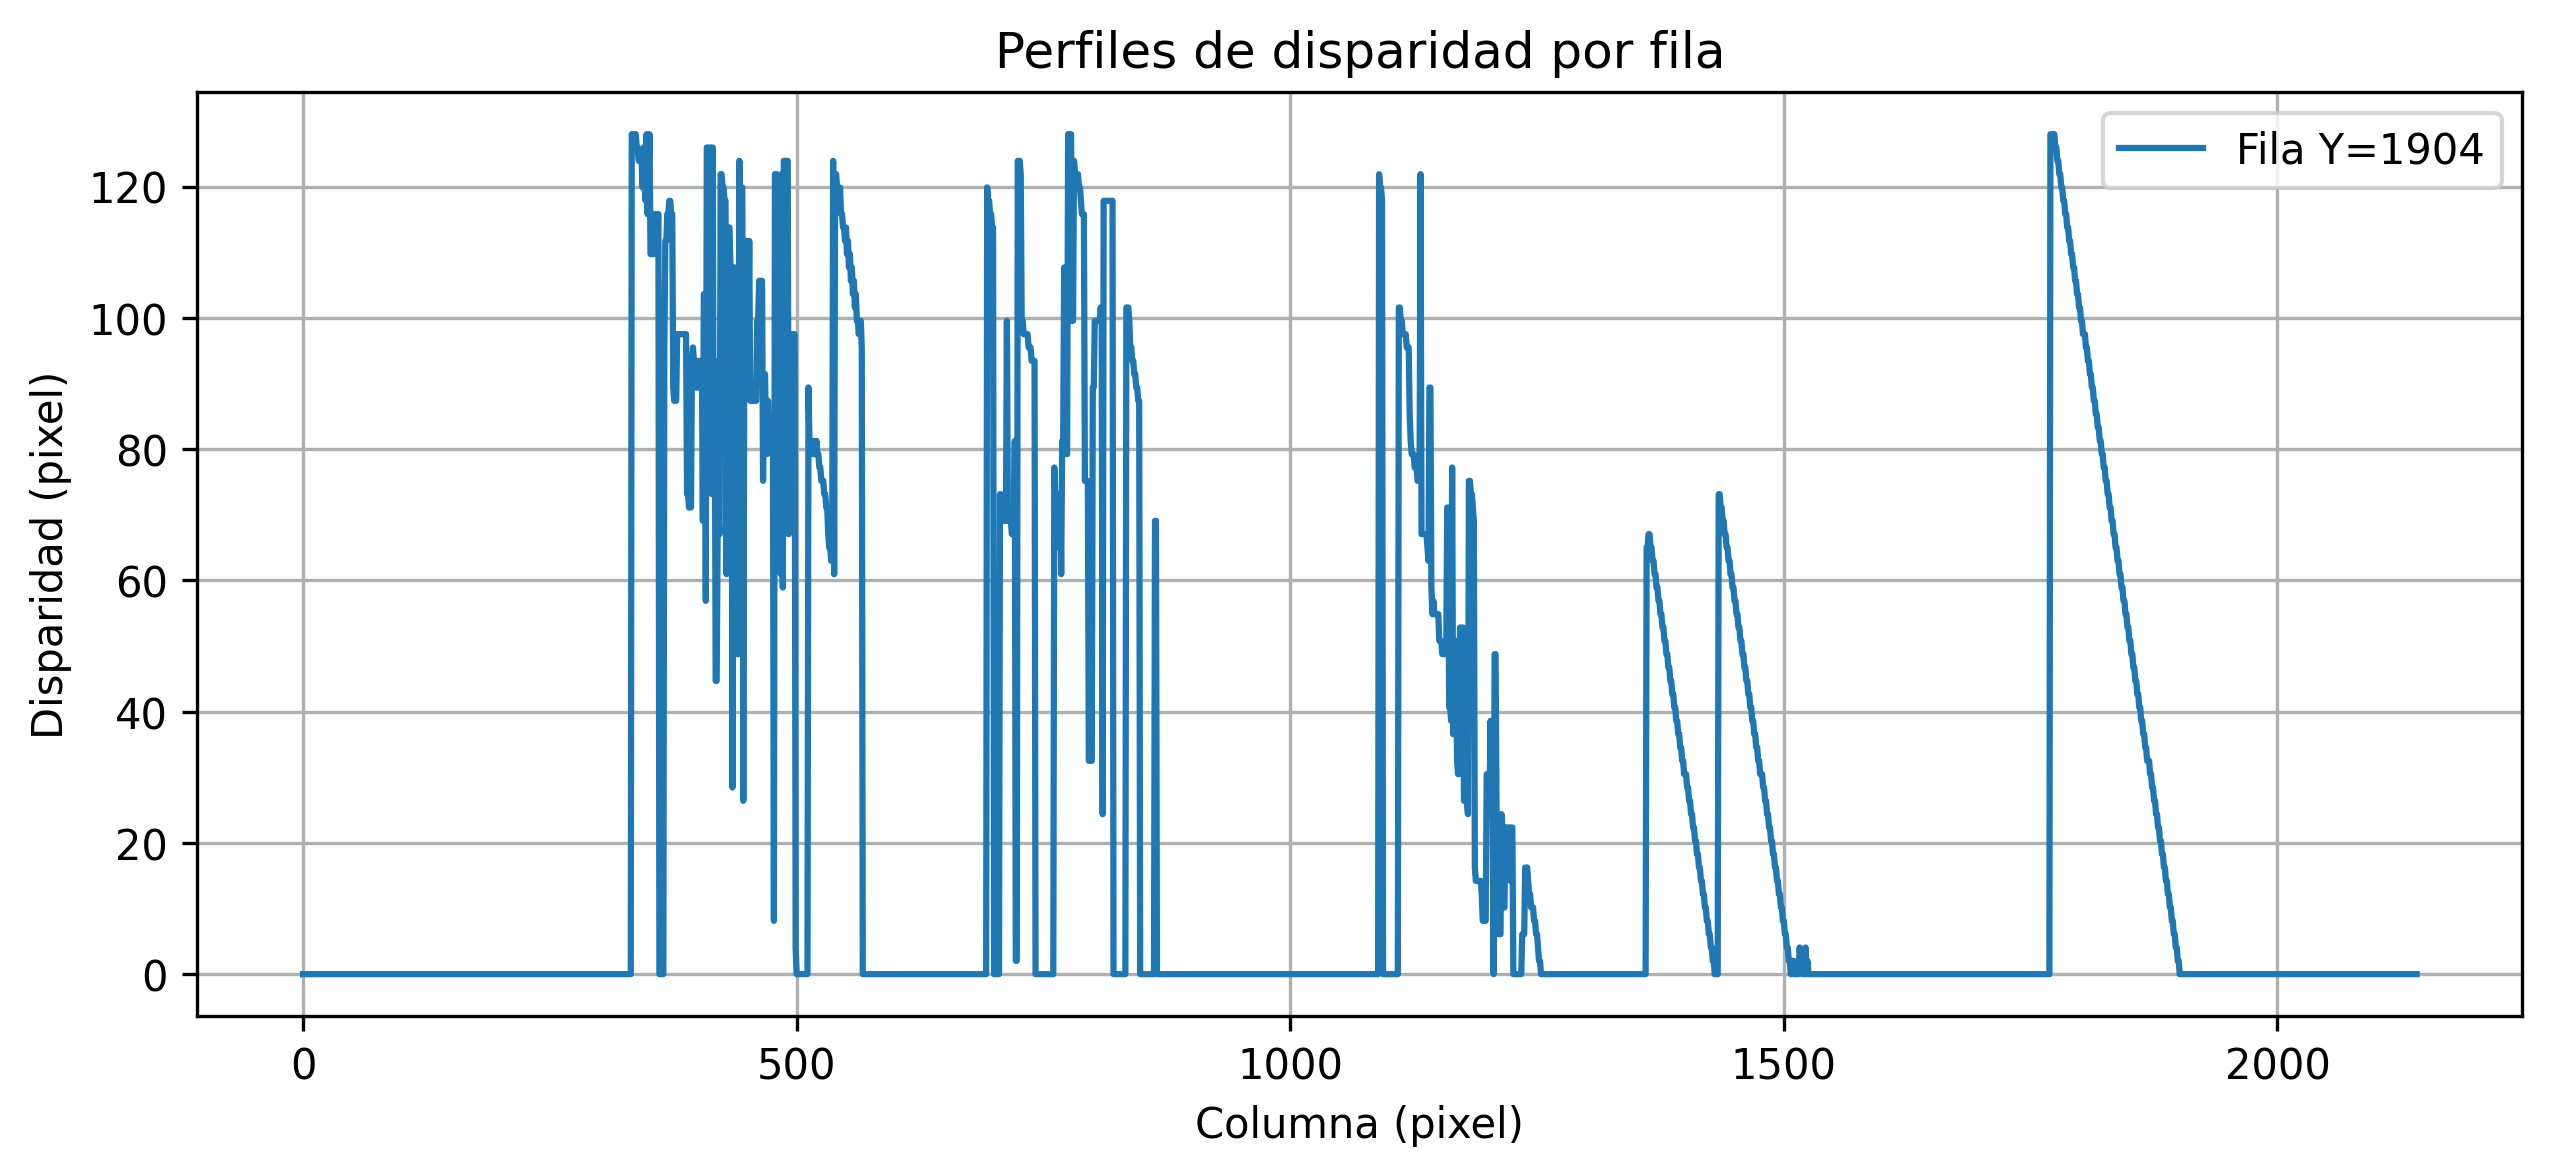
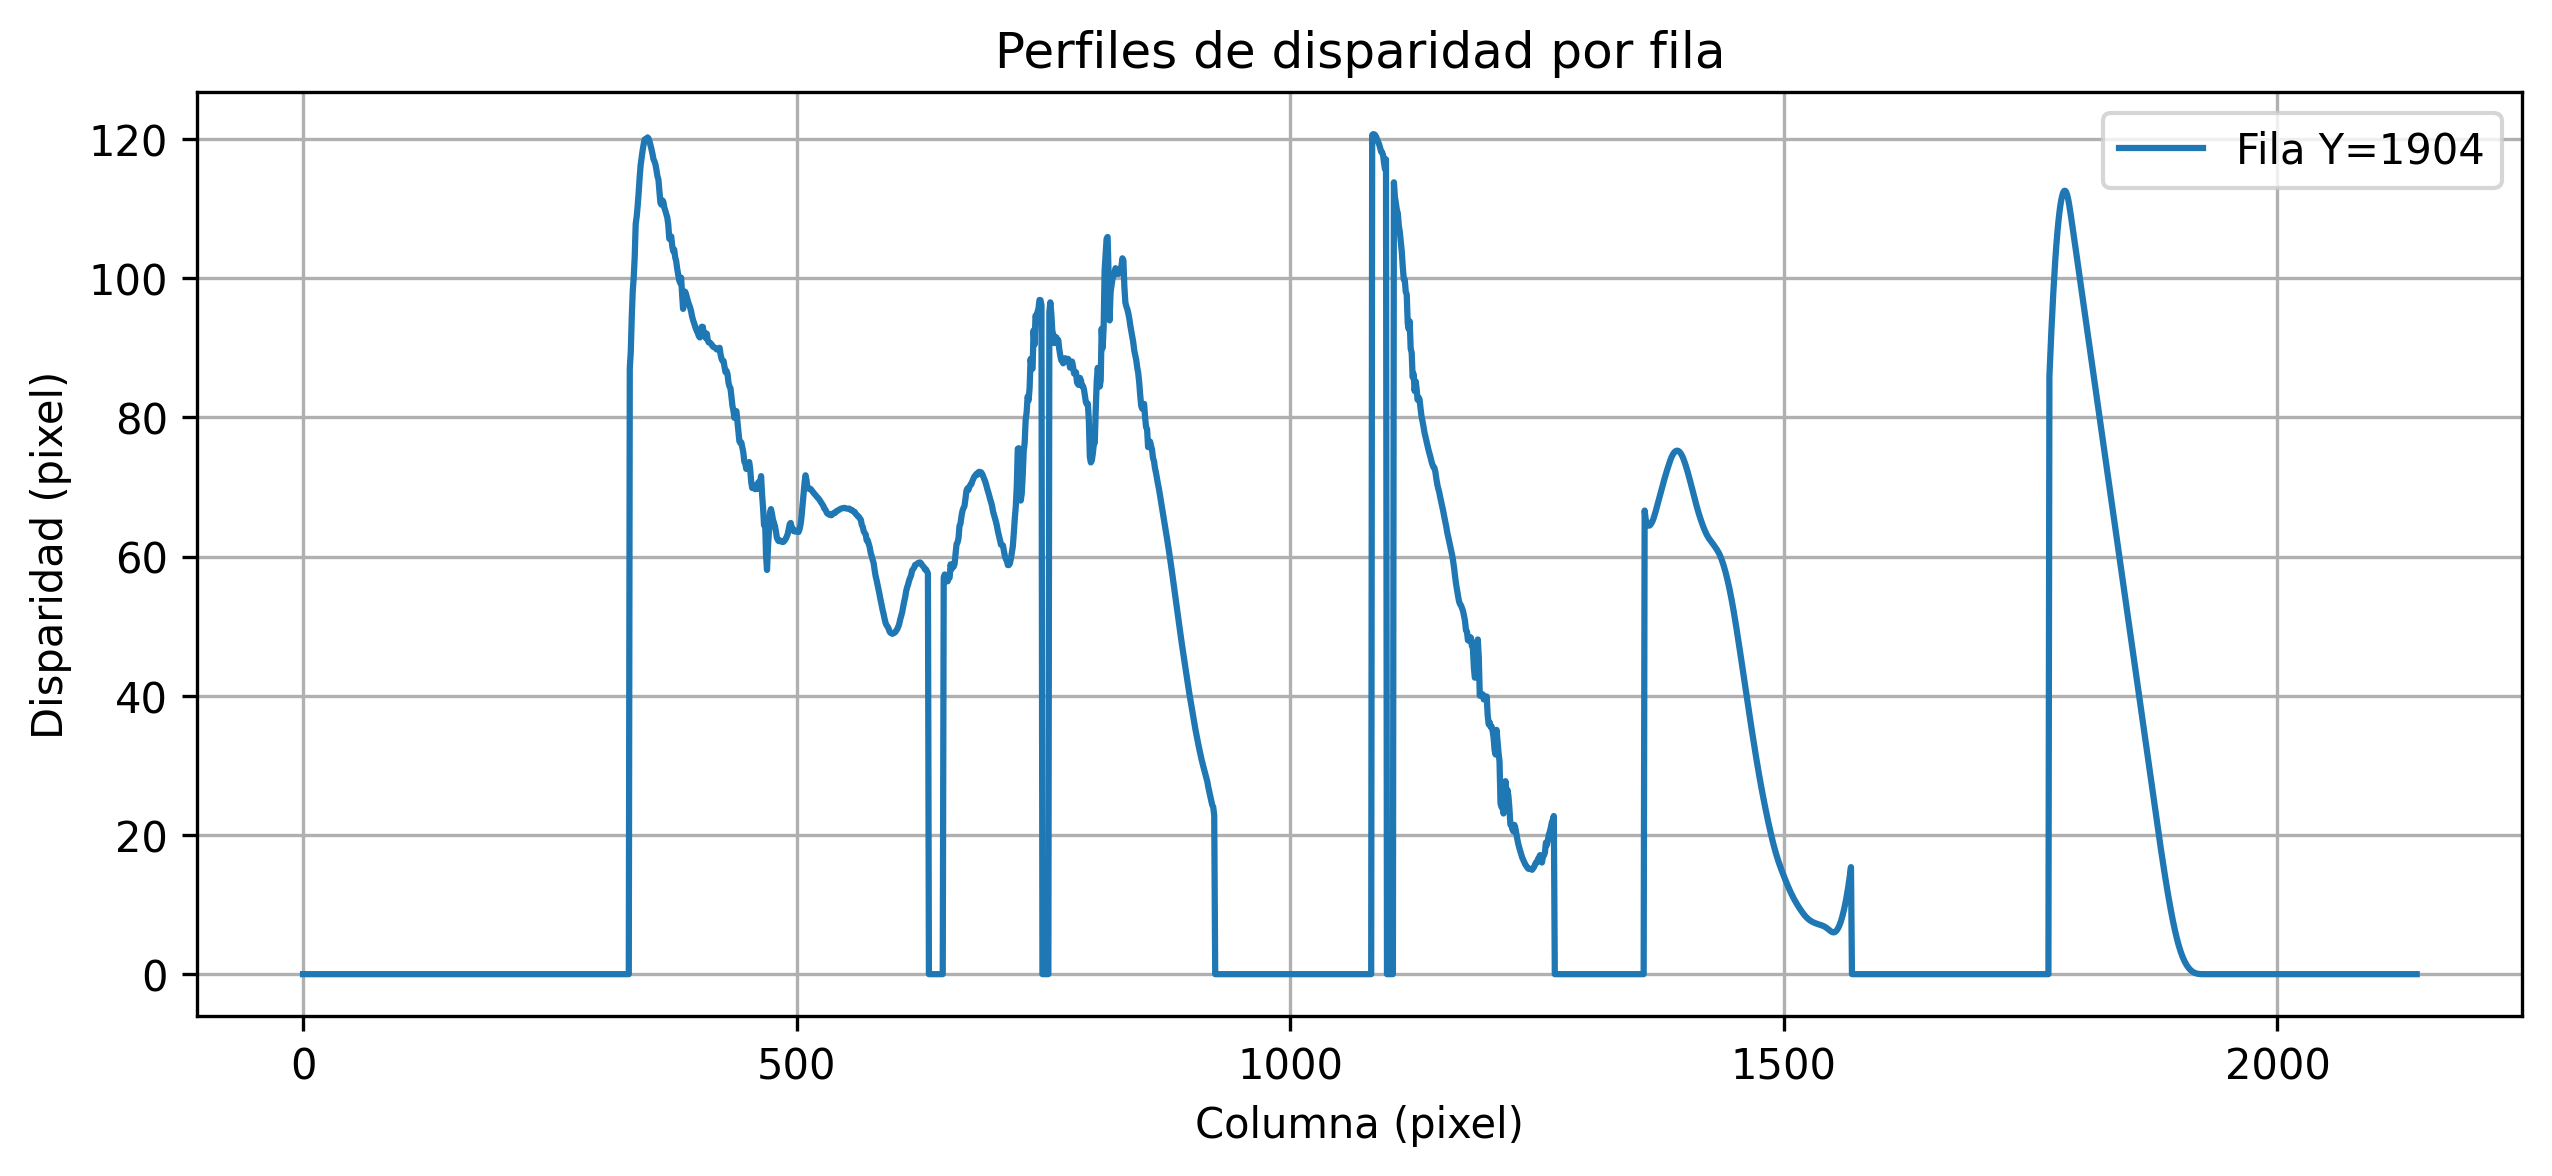
Actualizacion mapa de dispridad

diff --git a/plane_sweeping.py b/plane_sweeping.py
@@ -12,9 +12,39 @@ import numpy as np
 import cv2
 import config
 
+NUM_PLANOS = 96
+MAX_DISP = 128
+BOX_SIZE = 7
 
-def plane_sweep_stereo(img_rect1, img_rect2, num_planos=64, max_disp=128,
-                       box_size=9, escala=0.5):
+
+def guided_filter_disparity(I, p, r=25, eps=1e-3):
+    """
+    Filtro Guiado de Kaiming He.
+    I: Imagen de guía (escala de grises original, normalizada)
+    p: Mapa de disparidad con escaleras (float32)
+    """
+    I_float = I.astype(np.float32) / 255.0
+
+    mean_I = cv2.boxFilter(I_float, -1, (r, r))
+    mean_p = cv2.boxFilter(p, -1, (r, r))
+    mean_Ip = cv2.boxFilter(I_float * p, -1, (r, r))
+    cov_Ip = mean_Ip - mean_I * mean_p
+
+    mean_II = cv2.boxFilter(I_float * I_float, -1, (r, r))
+    var_I = mean_II - mean_I * mean_I
+
+    a = cov_Ip / (var_I + eps)
+    b = mean_p - a * mean_I
+
+    mean_a = cv2.boxFilter(a, -1, (r, r))
+    mean_b = cv2.boxFilter(b, -1, (r, r))
+
+    q = mean_a * I_float + mean_b
+    return q
+
+
+def plane_sweep_stereo(img_rect1, img_rect2, num_planos=NUM_PLANOS, max_disp=MAX_DISP,
+                       box_size=BOX_SIZE, escala=0.5):
     """Calcula el mapa de disparidad densa mediante Plane Sweeping.
 
     Parameters
@@ -67,8 +97,6 @@ def plane_sweep_stereo(img_rect1, img_rect2, num_planos=64, max_disp=128,
             diff = np.abs(gray1 - gray2)
         else:
             # Desplazar img2 horizontalmente d píxeles hacia la izquierda
-            # Equivalente a: para cada píxel (y,x) en img1,
-            # su correspondencia está en img2(y, x-d)
             img2_shifted = np.zeros_like(gray2)
             if d_int < w:
                 img2_shifted[:, :w - d_int] = gray2[:, d_int:]
@@ -86,34 +114,39 @@ def plane_sweep_stereo(img_rect1, img_rect2, num_planos=64, max_disp=128,
         if (i + 1) % max(1, num_planos // 5) == 0:
             config.info(f"[PLANE SWEEP]   Plano {i + 1}/{num_planos} (d={d:.1f} px)")
 
-    # --- Selección del plano ganador por píxel ---
-    config.info("[PLANE SWEEP] Seleccionando disparidad óptima por píxel...")
-    idx_min = np.argmin(volumen_coste, axis=2)            # (H, W)
-    disparidad_final = d_candidates[idx_min].astype(np.float32)  # (H, W)
-    min_cost = np.min(volumen_coste, axis=2)              # (H, W)
+    # --- Selección Discreta y Filtro Guiado ---
+    config.info("[PLANE SWEEP] Seleccionando disparidad y aplicando Filtro Guiado...")
+    idx_min = np.argmin(volumen_coste, axis=2)
 
-    # --- Filtrado de confianza ---
-    # Píxeles cuyo error mínimo supera la media global se consideran inválidos
-    umbral_confianza = np.mean(min_cost) * 0.8
-    mask_invalido = min_cost > umbral_confianza
-    disparidad_final[mask_invalido] = 0.0
-    # También descartar disparidad 0 (fondo)
-    disparidad_final[disparidad_final <= 0] = 0.0
+    paso_disp = max_disp / (num_planos - 1)
+    disparidad_raw = (idx_min * paso_disp).astype(np.float32)
 
-    n_validos = int(np.sum(disparidad_final > 0))
+    # LA MAGIA: Aplicamos el filtro guiado usando la imagen en grises como guía
+    disparidad_smooth = guided_filter_disparity(gray1, disparidad_raw, r=25, eps=0.01)
+
+    # --- Máscara de Confianza (Proteger el suelo) ---
+    min_cost = np.min(volumen_coste, axis=2)
+    umbral = np.mean(min_cost) * 1.1
+    mask_invalido = (min_cost > umbral).astype(np.uint8)
+
+    kernel = np.ones((7, 7), np.uint8)
+    mask_invalido_limpia = cv2.morphologyEx(mask_invalido, cv2.MORPH_OPEN, kernel)
+
+    disparidad_smooth[mask_invalido_limpia == 1] = 0.0
+    disparidad_smooth[disparidad_smooth <= 0] = 0.0
+
+    n_validos = int(np.sum(disparidad_smooth > 0))
     n_total = h * w
     config.info(f"[PLANE SWEEP] Píxeles válidos: {n_validos}/{n_total} "
                 f"({100 * n_validos / n_total:.1f}%)")
 
-    # --- Normalización y colormap ---
-    disp_norm = cv2.normalize(disparidad_final, None, alpha=0, beta=255,
-                              norm_type=cv2.NORM_MINMAX)
+    # --- Normalización Visual ---
+    disp_norm = cv2.normalize(disparidad_smooth, None, alpha=0, beta=255, norm_type=cv2.NORM_MINMAX)
     disp_uint8 = np.uint8(disp_norm)
     mapa_color = cv2.applyColorMap(disp_uint8, cv2.COLORMAP_MAGMA)
 
-    # Fondo negro puro para zonas inválidas
-    mask_negro = disparidad_final <= 0
+    mask_negro = disparidad_smooth <= 0
     mapa_color[mask_negro] = [0, 0, 0]
 
     config.info("[PLANE SWEEP] Plane sweeping completado.")
-    return disparidad_final, mapa_color
+    return disparidad_smooth, mapa_color